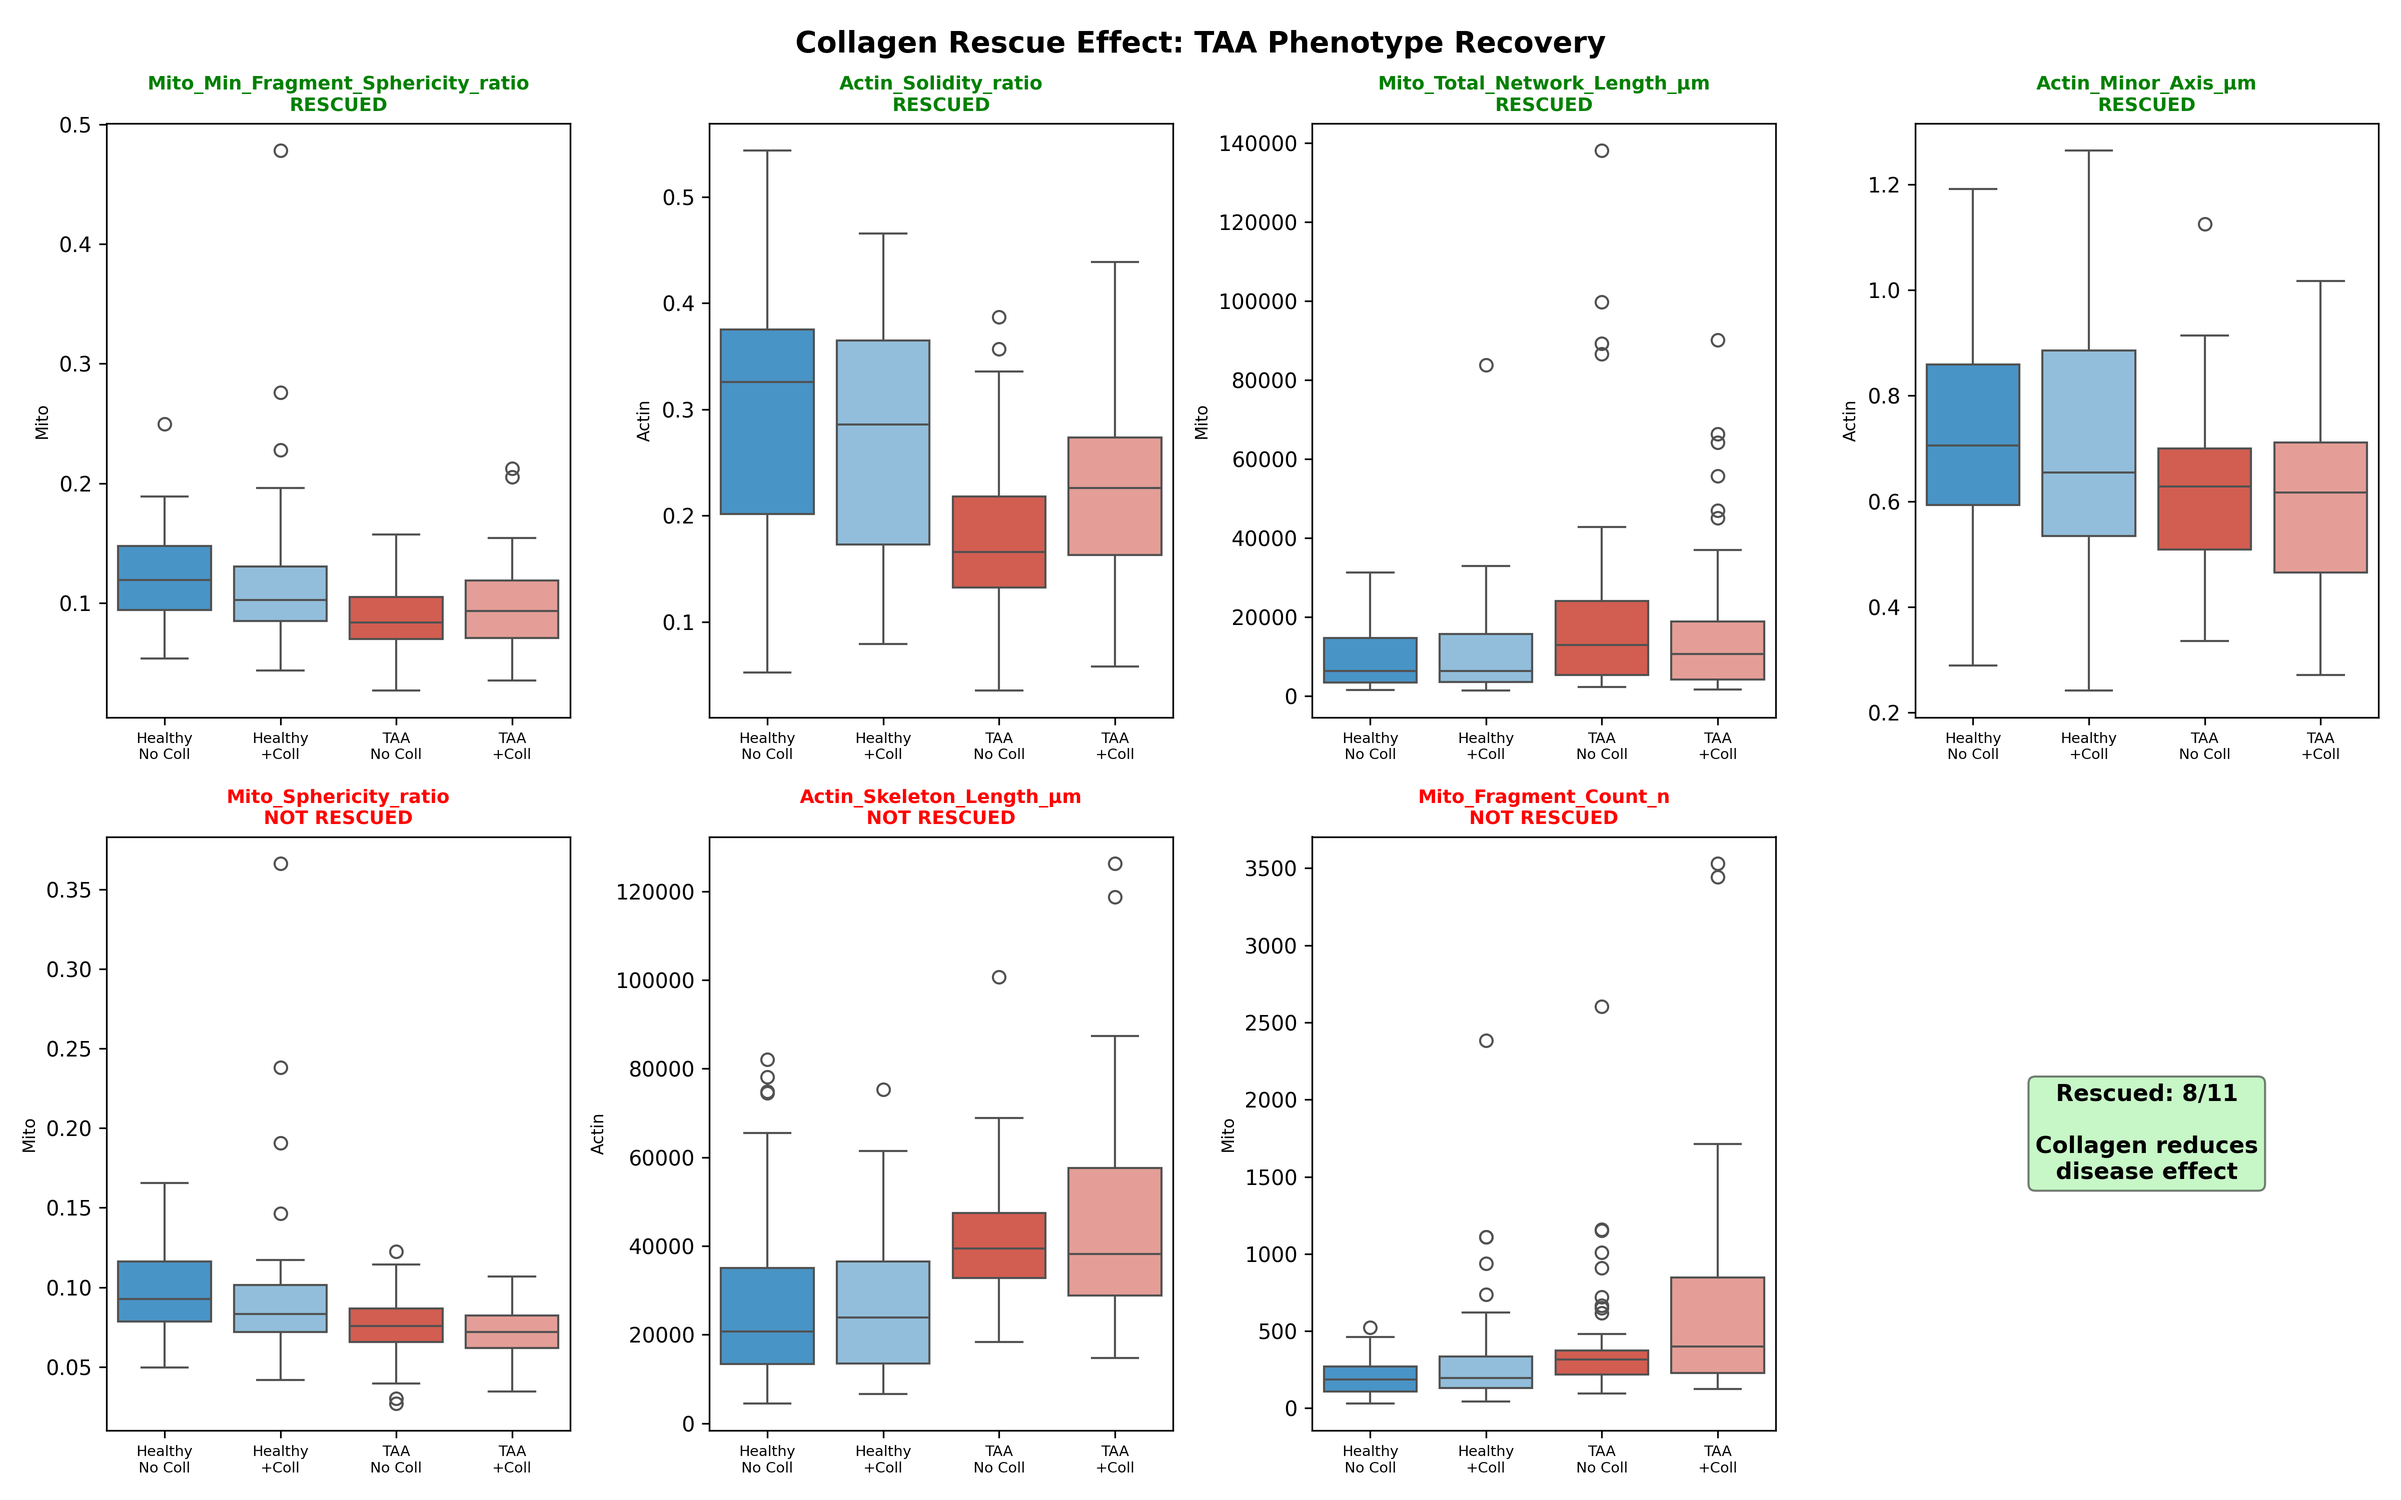
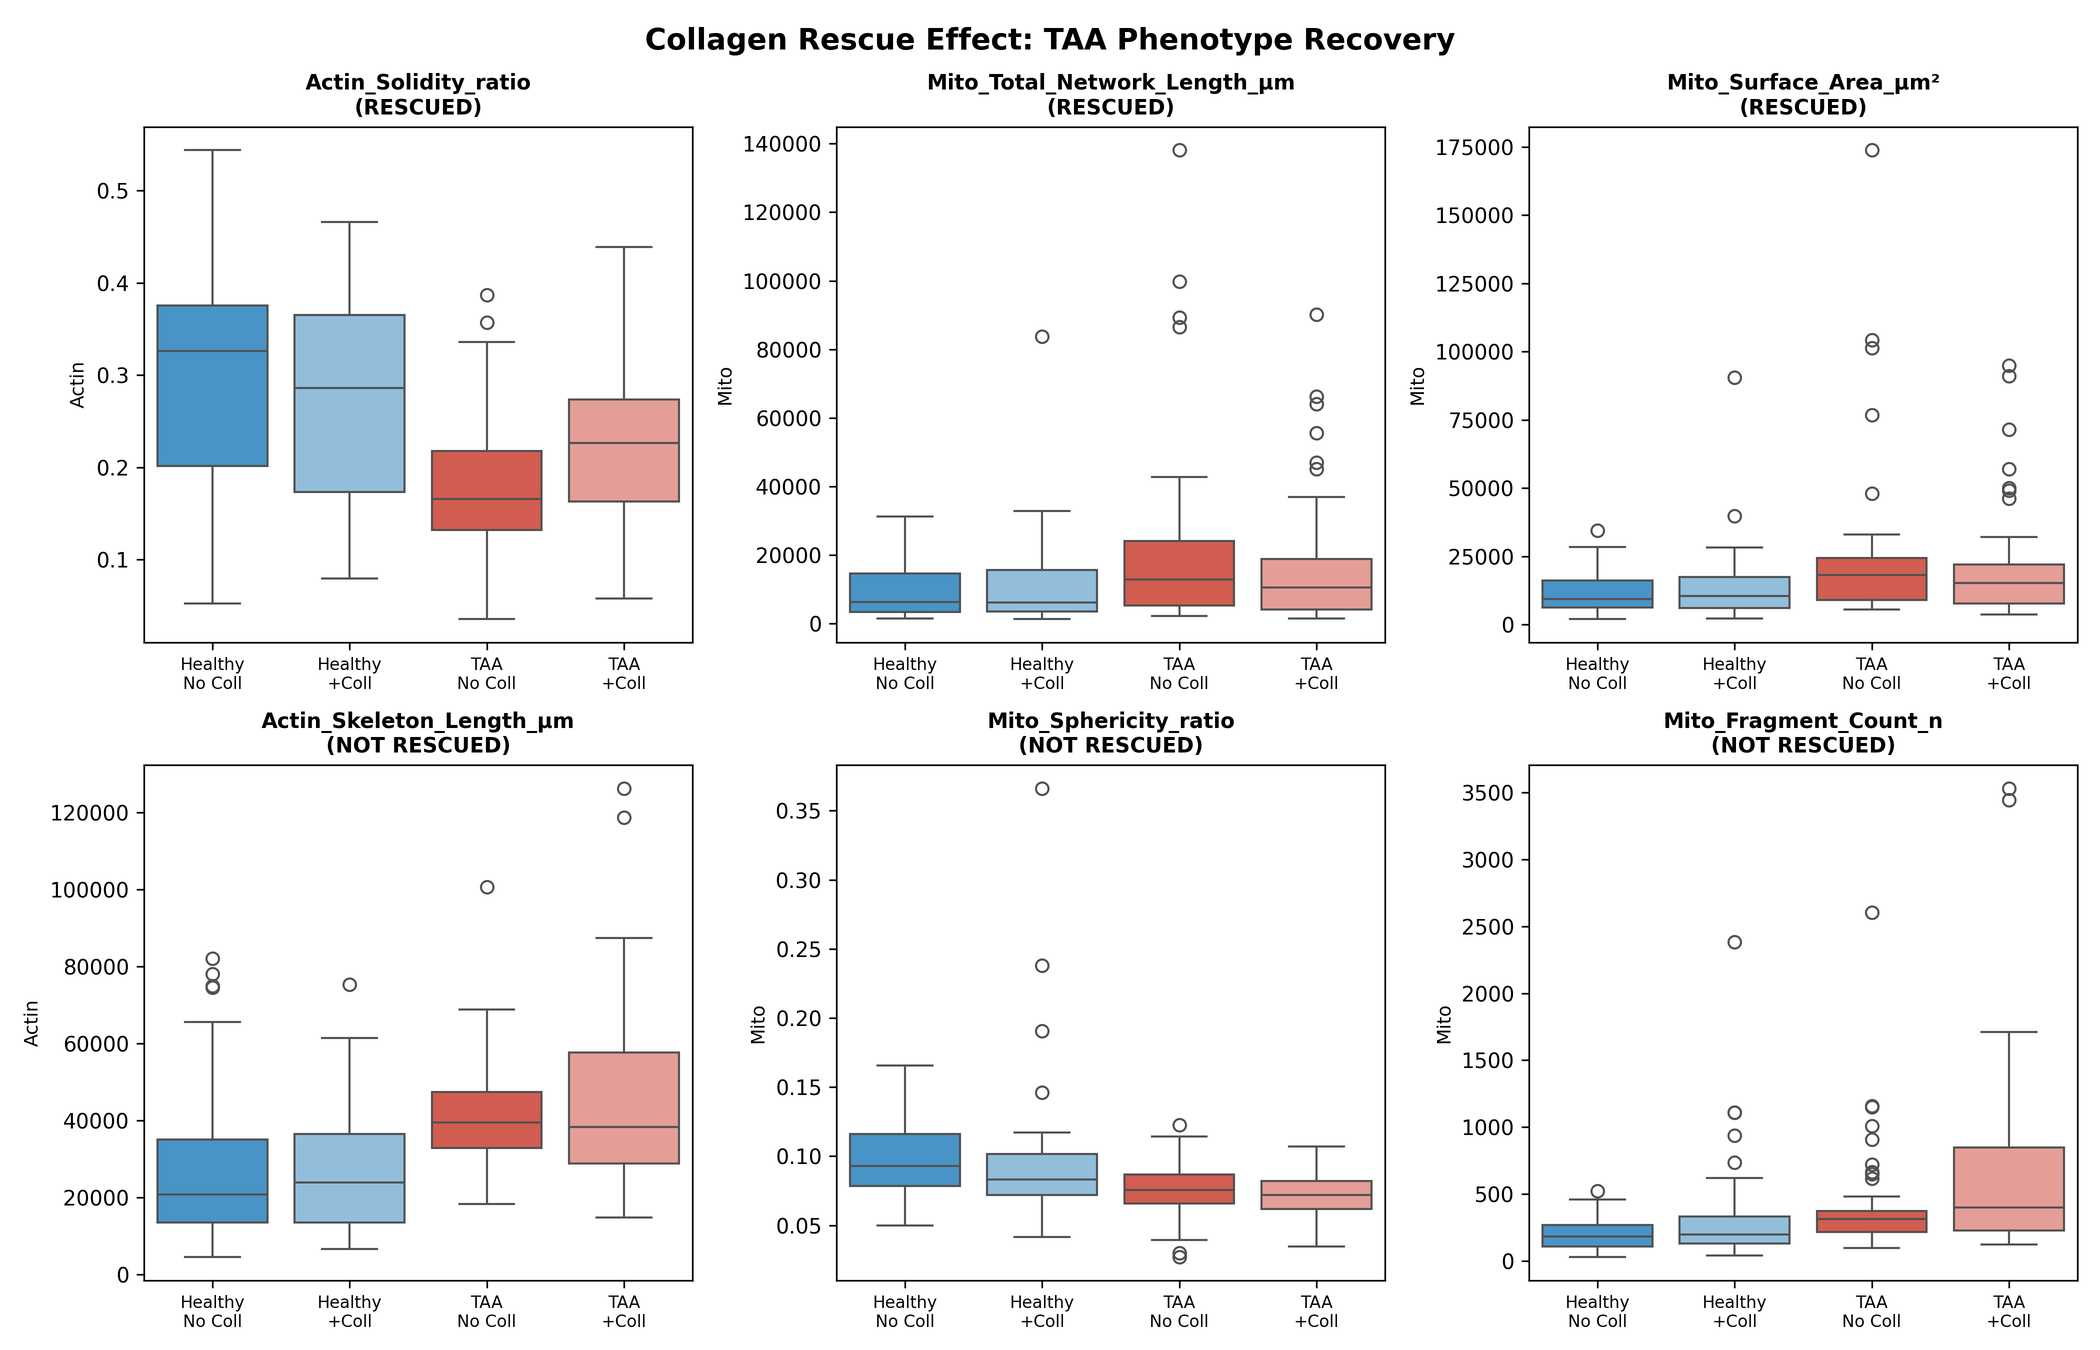
Fix rescue boxplot: remove green box, black titles, 2x3 grid layout

diff --git a/src/analysis/src/analysis/pairwiseComparison.py b/src/analysis/src/analysis/pairwiseComparison.py
@@ -323,7 +323,7 @@ def main():
     for f in not_rescued_features:
         print(f"  - {f}")
     
-    # 9. Create rescue boxplot
+    # 9. Create rescue boxplot (cleaner layout: 2 rows x 3 cols)
     # Prepare group labels for plotting
     df['Group_Label'] = df['Group'].map({
         'Healthy_NoCollagen': 'Healthy\nNo Coll',
@@ -336,46 +336,41 @@ def main():
                'TAA\nNo Coll': '#E74C3C', 'TAA\n+Coll': '#F1948A'}
     order = ['Healthy\nNo Coll', 'Healthy\n+Coll', 'TAA\nNo Coll', 'TAA\n+Coll']
     
-    # Select features for plot (top 4 rescued, all 3 not rescued)
-    rescued_plot = rescued_features[:4] if len(rescued_features) >= 4 else rescued_features
+    # Select features for plot: 3 rescued + 3 not rescued = 6 plots (2x3 grid)
+    rescued_plot = rescued_features[:3] if len(rescued_features) >= 3 else rescued_features
     not_rescued_plot = not_rescued_features[:3] if len(not_rescued_features) >= 3 else not_rescued_features
     
     n_rescued = len(rescued_plot)
     n_not_rescued = len(not_rescued_plot)
     
     if n_rescued > 0 or n_not_rescued > 0:
-        fig, axes = plt.subplots(2, 4, figsize=(16, 10))
+        fig, axes = plt.subplots(2, 3, figsize=(14, 9))
         
         # Top row: Rescued features
-        for i in range(4):
+        for i in range(3):
             ax = axes[0, i]
             if i < n_rescued:
                 feat = rescued_plot[i]
                 sns.boxplot(data=df, x='Group_Label', y=feat, ax=ax, order=order, palette=palette)
-                ax.set_title(f'{feat}\nRESCUED', fontsize=9, fontweight='bold', color='green')
+                ax.set_title(f'{feat}\n(RESCUED)', fontsize=10, fontweight='bold', color='black')
                 ax.set_xlabel('')
-                ax.set_ylabel(feat.split('_')[0], fontsize=8)
-                ax.tick_params(axis='x', labelsize=7)
+                ax.set_ylabel(feat.split('_')[0], fontsize=9)
+                ax.tick_params(axis='x', labelsize=8)
             else:
                 ax.axis('off')
         
         # Bottom row: Not rescued features
-        for i in range(4):
+        for i in range(3):
             ax = axes[1, i]
             if i < n_not_rescued:
                 feat = not_rescued_plot[i]
                 sns.boxplot(data=df, x='Group_Label', y=feat, ax=ax, order=order, palette=palette)
-                ax.set_title(f'{feat}\nNOT RESCUED', fontsize=9, fontweight='bold', color='red')
+                ax.set_title(f'{feat}\n(NOT RESCUED)', fontsize=10, fontweight='bold', color='black')
                 ax.set_xlabel('')
-                ax.set_ylabel(feat.split('_')[0], fontsize=8)
-                ax.tick_params(axis='x', labelsize=7)
+                ax.set_ylabel(feat.split('_')[0], fontsize=9)
+                ax.tick_params(axis='x', labelsize=8)
             else:
                 ax.axis('off')
-                if i == n_not_rescued:
-                    ax.text(0.5, 0.5, f'Rescued: {len(rescued_features)}/{len(sig_nocoll)}\n\nCollagen reduces\ndisease effect', 
-                            ha='center', va='center', fontsize=11, fontweight='bold',
-                            bbox=dict(boxstyle='round', facecolor='lightgreen', alpha=0.5),
-                            transform=ax.transAxes)
         
         plt.suptitle('Collagen Rescue Effect: TAA Phenotype Recovery', fontsize=14, fontweight='bold')
         plt.tight_layout()
